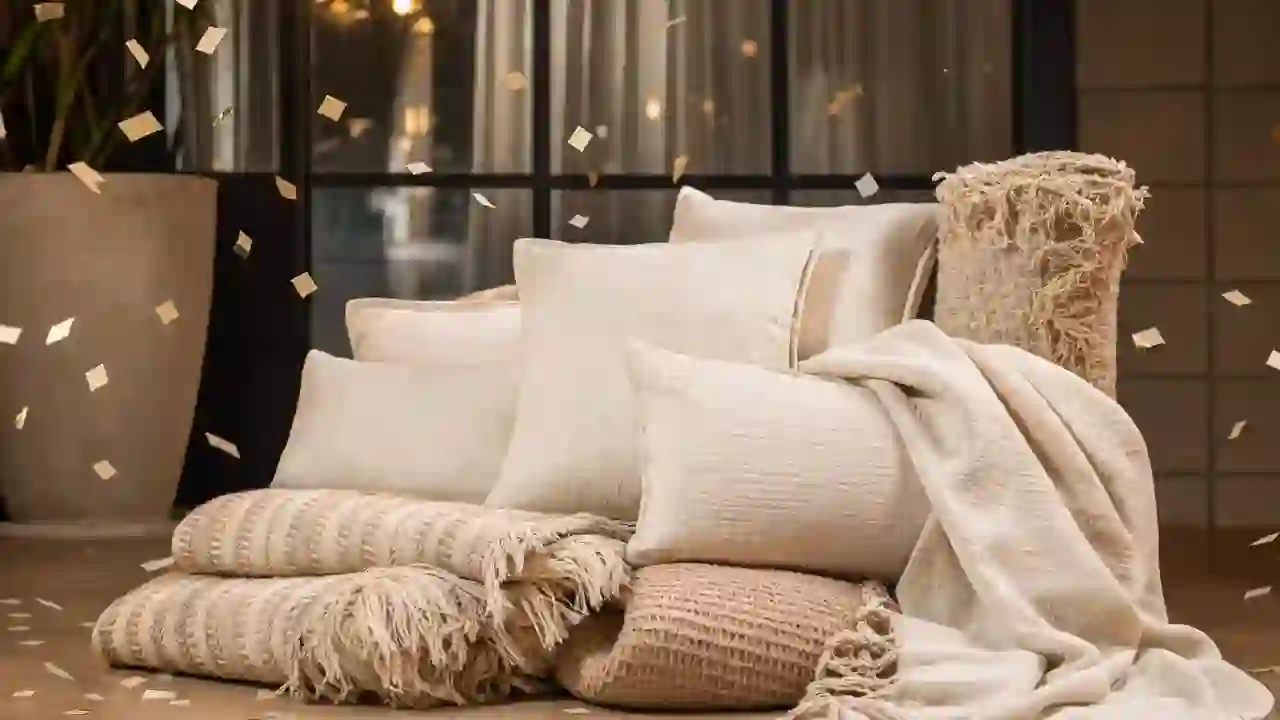
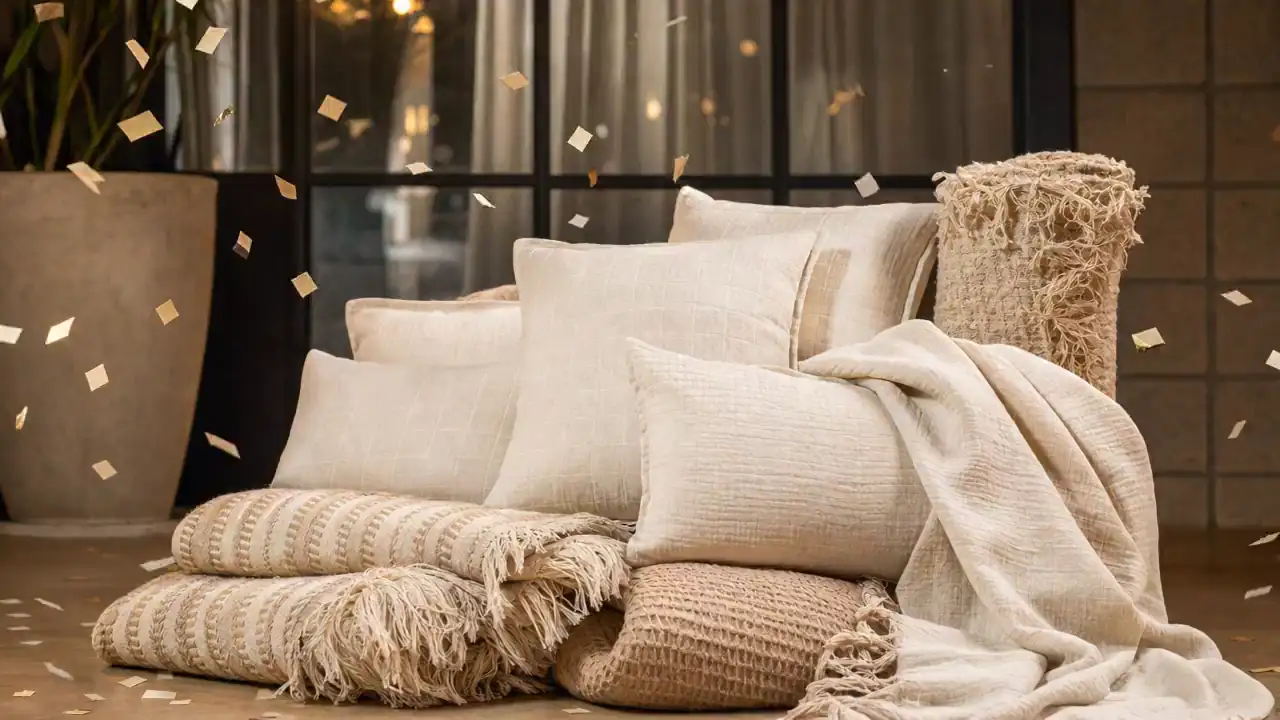
feat: ronda de Nicolás — ritmo del video, cierre alineado y Google directo
- fondo en video: reencode para decodificación barata, promoción de capa antes
  de reproducir, arranque por canplaythrough, reinicio del loop durante el
  fundido y corte por dispositivo en gama baja
- premio genérico en toda la comunicación; el detalle por ganador queda en Bases
- CTA de cierre "Autorizar y confirmar", compacto y alineado con los tickets
- letra chica y Bases explicitan el uso anónimo del material
- Google abre el panel de calificar (g.page/r/.../review), no la lista
- footer reducido a Rollershow y Bases y condiciones
- nuevo scripts/verify-video-pacing.mjs

diff --git a/index.html b/index.html
@@ -777,7 +777,9 @@ body{min-height:100vh;min-height:100dvh}
 .confirm-summary{display:flex;flex-direction:column;min-width:0}
 .confirm-score{margin-top:16px;padding-block:14px;border-block:1px solid rgba(142,77,31,.28);color:var(--fg-soft)}
 .confirm-chances{display:flex;align-items:flex-end;gap:12px}
-.confirm-chances strong{font-family:var(--font-display);font-size:clamp(4.8rem,18vw,8.2rem);font-weight:800;line-height:.72;letter-spacing:-.075em;color:var(--cta-deep);font-variant-numeric:tabular-nums}
+/* El tracking negativo se aplica también después del último dígito: sin este
+   padding la etiqueta se monta encima del número (visible con 1 dígito). */
+.confirm-chances strong{font-family:var(--font-display);font-size:clamp(4.8rem,18vw,8.2rem);font-weight:800;line-height:.72;letter-spacing:-.075em;padding-right:.075em;color:var(--cta-deep);font-variant-numeric:tabular-nums}
 .confirm-chances span{font-family:var(--font-display);font-size:1.05rem;font-weight:800;line-height:1.05;max-width:11ch;padding-bottom:4px}
 .confirm-ticket-icon{display:block;width:30px;height:30px;margin-bottom:6px;color:var(--cta-deep)}
 .confirm-proof{margin-top:12px;max-width:36ch;font-weight:700;font-size:.9rem;color:var(--fg-soft)}
@@ -789,13 +791,16 @@ body{min-height:100vh;min-height:100dvh}
 @keyframes finalProof{from{opacity:0;transform:translateY(10px)}to{opacity:1;transform:none}}
 .confirm-actions{margin-top:18px;align-self:stretch}
 .confirm-step .consent{display:block;position:relative;margin:0;padding:0;background:none;color:inherit}
+/* CTA compacto y corto: en desktop no es una barra a sangre, se mide por su
+   propio texto y comparte el eje izquierdo con la letra chica (Nico, 2026-07-23). */
 .confirm-step .consent-action{display:flex;width:100%;min-height:64px;padding:15px 18px;align-items:center;justify-content:center;gap:10px;border:1px solid transparent;border-radius:14px;
   background:var(--cta);color:#fff;font-family:var(--font-display);font-size:1rem;font-weight:800;line-height:1.2;text-align:center;box-shadow:0 16px 34px -17px rgba(151,41,15,.9);transition:background .34s,box-shadow .34s,transform .2s,border-color .34s}
 .confirm-step .consent-action:hover{background:var(--cta-deep)}
 .confirm-step .consent-action:active{transform:scale(.985)}
 .confirm-step .consent-action:focus-visible{outline:3px solid rgba(198,58,33,.3);outline-offset:3px}
 .confirm-step .consent-action svg{width:18px;height:18px;flex:none}
-.confirm-step .consent-note{margin:10px auto 0;max-width:46ch;color:var(--fg-mute);font-size:.76rem;line-height:1.4;text-align:center}
+.confirm-step .consent-note{margin:12px 0 0;max-width:46ch;color:var(--fg-mute);font-size:.76rem;line-height:1.45;text-align:left}
+.confirm-step .consent-note strong{color:var(--fg-soft);font-weight:700}
 .confirm-step .consent-note a{position:relative;display:inline-block;min-height:32px;padding:6px 4px;color:var(--accent-deep);font-weight:700;text-underline-offset:3px}
 /* El área táctil llega a 44 px sin estirar la línea: si el link creciera de verdad,
    abriría un hueco en medio del párrafo de consentimiento. */
@@ -892,7 +897,11 @@ body.done #flowApp{display:none}
   .confirm-step .confirm-summary>.step-title{grid-column:2 / span 7;grid-row:1;margin:0}
   .confirm-step .confirm-summary>.step-copy{grid-column:2 / span 6;grid-row:2;margin:0}
   .confirm-step .confirm-score{grid-column:2 / span 5;grid-row:3;margin-top:16px}
-  .confirm-step .confirm-actions{grid-column:7 / span 5;grid-row:3;margin-top:16px;align-self:center}
+  /* align-self:start, no center: el borde superior del CTA tiene que arrancar en
+     la misma línea que el bloque de tickets. Con center quedaba 33 px más abajo
+     y se leía como desalineado. */
+  .confirm-step .confirm-actions{grid-column:7 / span 5;grid-row:3;margin-top:16px;align-self:start}
+  .confirm-step .consent-action{display:inline-flex;width:auto;max-width:100%;min-height:56px;padding:16px 28px;font-size:.98rem}
   .item-step .step-inner{display:grid;grid-template-columns:repeat(12,minmax(0,1fr));column-gap:24px;row-gap:12px;align-items:start;align-content:start}
   .item-step.has-media .step-inner{row-gap:0}
   .item-step.has-media .item-heading{margin-bottom:12px}
@@ -955,12 +964,37 @@ body.done #flowApp{display:none}
       <div class="intro-scene">
         <picture aria-hidden="true">
           <source media="(max-width:799px)" srcset="img/video/rs-premio-celebracion-mobile-poster.webp" />
-          <img class="intro-base" src="img/video/rs-premio-celebracion-desktop-poster.webp" width="1440" height="810" alt="" fetchpriority="high" />
+          <img class="intro-base" src="img/video/rs-premio-celebracion-desktop-poster.webp" width="1280" height="720" alt="" fetchpriority="high" />
         </picture>
         <video class="scene-video" data-scene-video data-seamless-start data-soft-loop data-src-desktop="img/video/rs-premio-celebracion-desktop.mp4" data-src-mobile="img/video/rs-premio-celebracion-mobile.mp4" muted playsinline preload="auto" aria-hidden="true">
           <source media="(max-width:799px)" src="img/video/rs-premio-celebracion-mobile.mp4" type="video/mp4" />
           <source src="img/video/rs-premio-celebracion-desktop.mp4" type="video/mp4" />
         </video>
+        <!-- El video se declara con sus <source> y preload="auto" para que arranque
+             sin cambio de plano. Este script corre apenas se parsea el elemento y
+             aborta la descarga sólo en equipos que no la bancan: ahí queda el
+             póster quieto, que es mejor que un fondo a los tirones. -->
+        <script>
+        window.sceneVideoAllowed = function () {
+          if (window.sceneVideoAllowed.cache !== undefined) return window.sceneVideoAllowed.cache;
+          var c = navigator.connection || {};
+          var lenta = c.saveData === true || /^(slow-)?2g$/.test(c.effectiveType || "") || c.effectiveType === "3g";
+          var pocaMemoria = typeof navigator.deviceMemory === "number" && navigator.deviceMemory <= 4;
+          var pocosNucleos = typeof navigator.hardwareConcurrency === "number" && navigator.hardwareConcurrency <= 4;
+          window.sceneVideoAllowed.cache = !(lenta || (pocaMemoria && pocosNucleos));
+          return window.sceneVideoAllowed.cache;
+        };
+        if (!window.sceneVideoAllowed()) {
+          (function () {
+            var v = document.currentScript.parentNode.querySelector(".scene-video");
+            if (!v) return;
+            v.preload = "none";
+            while (v.firstElementChild) v.removeChild(v.firstElementChild);
+            v.removeAttribute("src");
+            v.load();
+          })();
+        }
+        </script>
       </div>
       <div class="step-inner">
         <img class="intro-logo" src="img/logo.svg" alt="Rollershow" />
@@ -1161,10 +1195,10 @@ body.done #flowApp{display:none}
     <div class="wrap">
       <div class="consent" id="consentBox">
         <input type="checkbox" id="consent" hidden />
-        <button class="consent-action" id="confirmParticipation" type="button">Autorizar el uso y confirmar mi participación
+        <button class="consent-action" id="confirmParticipation" type="button">Autorizar y confirmar
           <svg viewBox="0 0 24 24" fill="none" stroke="currentColor" stroke-width="2.4" aria-hidden="true"><path d="M5 12h14M13 6l6 6-6 6"/></svg>
         </button>
-        <p class="consent-note">Autorizás a Rollershow a publicar las fotos, videos, audios y opinión que compartiste en sus redes y web. Este único toque autoriza y confirma. <a href="#" id="openBases">Ver bases del sorteo</a></p>
+        <p class="consent-note">Con este toque autorizás y confirmás tu participación. Usamos tus fotos, video, audio y opinión sólo para mostrarle a otros clientes cómo quedan nuestras cortinas, <strong>de forma anónima: no publicamos tu nombre, tu teléfono ni tus datos</strong>. Podés pedirnos que lo bajemos cuando quieras. <a href="#" id="openBases">Ver bases y condiciones</a></p>
       </div>
       <p class="cta-sub" id="ctaSub">Con lo que cargaste hasta ahora entrás al sorteo de julio.</p>
     </div>
@@ -1205,9 +1239,16 @@ body.done #flowApp{display:none}
          de Google Business Profile para esto), así que la confirmación es
          auto-reportada por el cliente. Rollershow asume ese margen de
          confianza, igual que ya confía en que las fotos subidas son reales.
-         Link directo al compositor de reseñas del local de CABA, confirmado
-         por Agus. El segmento !9m1!1b1 abre la acción de escribir la opinión;
-         Google puede pedir login primero si no hay una sesión iniciada.
+         Link corto oficial de Google al compositor de reseñas del local de CABA
+         (Roseti 1674). Es el mismo formato que Google Business Profile entrega
+         en "Pedir reseñas" y el que usan los QR de locales: en un celular con
+         la app de Maps abre directo el panel de estrellas, no la lista de
+         opiniones. Se derivó del CID de la ficha (0x4354517b56352268).
+         El link anterior (maps/place/...!9m1!1b1) abría la ficha con las
+         opiniones y obligaba a buscar el botón de escribir.
+         Alternativa equivalente para web, si alguna vez hiciera falta:
+         https://search.google.com/local/writereview?placeid=ChIJa1mZkHG2vJURaCI1VntRVEM
+         Google pide login primero si no hay sesión iniciada.
          TODO(Nico): Rollershow tiene 2 locales (CABA y Villa Carlos Paz) —
          este mockup usa siempre el de CABA. Si el presupuesto trae el local
          de origen, elegir el link según corresponda; si no, confirmar con
@@ -1216,7 +1257,7 @@ body.done #flowApp{display:none}
       <div class="g-block" id="gBlock">
         <h3 id="gTitle">Duplicá tus tickets en Google</h3>
         <p id="gIntro">Publicá tu reseña y, cuando vuelvas, confirmá que ya está.</p>
-        <a class="g-cta" id="gReviewBtn" href="https://www.google.com/maps/place/Cortinas+RollerShow/@-34.5819602,-58.4652317,20z/data=!4m8!3m7!1s0x95bcb6719099596b:0x4354517b56352268!8m2!3d-34.5817708!4d-58.4657373!9m1!1b1!16s%2Fg%2F11ddzr18df?entry=ttu&amp;g_ep=EgoyMDI2MDcxMy4wIKXMDSoASAFQAw%3D%3D" target="_blank" rel="noopener">
+        <a class="g-cta" id="gReviewBtn" href="https://g.page/r/CWgiNVZ7UVRD/review" target="_blank" rel="noopener">
           Ir a Google y duplicar mis tickets
           <svg viewBox="0 0 24 24" fill="none" stroke="currentColor" stroke-width="2.4"><path d="M5 12h14M13 6l6 6-6 6"/></svg>
         </a>
@@ -1251,8 +1292,8 @@ body.done #flowApp{display:none}
 
 <footer>
   <div class="wrap">
-    <span>Rollershow. Cortinas a medida en Villa Carlos Paz y Capital Federal.</span>
-    <span><a href="#" id="openBases2">Bases y condiciones del sorteo</a></span>
+    <span>Rollershow</span>
+    <span><a href="#" id="openBases2">Bases y condiciones</a></span>
   </div>
 </footer>
 
@@ -1265,10 +1306,15 @@ body.done #flowApp{display:none}
     <div class="bases-txt">
       <p>Participan clientes de Rollershow mayores de 18 años, residentes en Argentina, que hayan comprado cortinas y completen este formulario durante el mes en curso.</p>
       <p>Toda participación confirmada tiene al menos un ticket, y cada ticket es una chance en el sorteo. Los tickets se otorgan por: foto de cortina instalada (1 por foto), video (1 por video), mensaje de voz (3), calificación con estrellas (1) y opinión escrita de al menos 20 caracteres (1). El total final lo valida Rollershow al revisar el material.</p>
-      <p id="basesPrizeText">Este mes se sortean 3 almohadones y 2 alfombras premium entre 3 ganadores. El sorteo se realiza en vivo en la fecha publicada en esta página, desde el Instagram de Rollershow, y el resultado se publica en esa cuenta. Los ganadores serán contactados por WhatsApp.</p>
+      <p id="basesPrizeText">Este mes se sortean 3 premios entre 3 personas, uno por persona. El sorteo se realiza en vivo en la fecha publicada en esta página, desde el Instagram de Rollershow, y el resultado se publica en esa cuenta. Las personas ganadoras serán contactadas por WhatsApp.</p>
       <p>Para que la participación sea válida al momento del sorteo, la persona debe seguir a <strong>@cortinas.rollershow</strong> en Instagram. Rollershow verificará este requisito antes de entregar el premio. Instagram no patrocina, avala ni administra esta promoción, ni está asociado a ella.</p>
-      <p>Al participar autorizás a Rollershow a publicar las fotos, videos, audios y textos enviados en sus redes sociales, web y material comercial, sin datos personales más allá de tu nombre de pila. Podés pedir la baja del material escribiéndonos cuando quieras.</p>
+      <p><strong>Uso del material, en forma anónima.</strong> Al participar autorizás a Rollershow a publicar las fotos, videos, audios y textos que enviaste en sus redes sociales, su web y su material comercial, con un solo fin: mostrarle a otros clientes cómo quedan las cortinas instaladas. La publicación es anónima: no difundimos tu nombre, tu teléfono, tu dirección ni ningún otro dato personal junto al material. Podés pedirnos que lo demos de baja cuando quieras, escribiéndonos por WhatsApp o por Instagram.</p>
+      <p><strong>Tus datos.</strong> El material y los datos de contacto se usan sólo para administrar este sorteo, avisarte si ganás y publicar el material como se explica arriba. No se venden ni se ceden a terceros.</p>
+      <!-- TODO(legal): definir quién paga el envío o retiro del premio y la vía
+           de participación sin compra que exige el Decreto 961/2017. No inventar
+           ninguna de las dos acá. -->
       <p>Sin obligación de compra adicional. Premios no canjeables por dinero.</p>
+      <p>Los premios pueden variar de un mes a otro. El detalle vigente es el publicado en estas bases al momento del sorteo.</p>
     </div>
     <button class="modal-close" data-close>Entendido</button>
   </div>
@@ -1298,6 +1344,12 @@ const SORTEO = {
   mes: "julio",
   fecha: "31 de julio",
   ganadores: 3,
+  /* Cómo se nombra el premio en la comunicación (portada, confirmación,
+     Gracias, salida). Es deliberadamente genérico porque los productos cambian
+     mes a mes y el copy no puede quedar viejo: pedido de Agus 2026-07-23.
+     El detalle exacto vive abajo y sólo se publica en las Bases. */
+  premioGenerico: "sets de textiles premium",
+  premioGenericoDetalle: "mantas, almohadones y alfombras para acompañar tus cortinas",
   /* Un set por ganador. El Decreto 961/2017 exige informar qué recibe cada
      ganador, así que esta es la forma que además destraba las Bases. */
   premios: [
@@ -1312,9 +1364,9 @@ function listaNatural(partes) {
   if (partes.length < 2) return partes[0] || "premios de decoración";
   return `${partes.slice(0,-1).join(", ")} y ${partes.at(-1)}`;
 }
-/* Resumen corto para los lugares donde no entra el detalle, y el detalle por
-   ganador para portada y Bases. */
-const premiosResumen = `${SORTEO.premios.length} ${SORTEO.premios.length === 1 ? "premio" : "premios"} de mantas y almohadones`;
+/* Resumen genérico para toda la comunicación, y el detalle por ganador que sólo
+   aparece en las Bases. */
+const premiosResumen = `${SORTEO.premios.length} ${SORTEO.premioGenerico}`;
 const premiosDetalle = SORTEO.premios.map(premio => `${premio.puesto}: ${premio.contenido}`).join(". ") + ".";
 const ganadoresTexto = `${SORTEO.ganadores} ${SORTEO.ganadores === 1 ? "persona" : "personas"}`;
 
@@ -1369,15 +1421,20 @@ document.body.classList.add(`variant-${FLOW_VARIANT}`);
 $("#heroTitle").textContent = `${PRESUPUESTO.cliente.nombre}, mostrá cómo quedó tu casa.`;
 $("#flowHeroTitle").textContent = `${PRESUPUESTO.cliente.nombre}, compartí tu cortina y participá del sorteo.`;
 $("#introPrizeHook").textContent = "Mostranos cómo quedó tu casa con fotos, videos o tu experiencia.";
-$("#introPrizeCopy").replaceChildren(...SORTEO.premios.map(premio => {
+/* La portada nombra el premio de forma genérica: los productos cambian todos los
+   meses y el detalle por ganador queda en las Bases. */
+$("#introPrizeCopy").replaceChildren(...[
+  `<b>${premiosResumen}</b> para tu casa, uno para cada ganador.`,
+  SORTEO.premioGenericoDetalle.charAt(0).toUpperCase() + SORTEO.premioGenericoDetalle.slice(1) + "."
+].map(texto => {
   const fila = document.createElement("li");
-  fila.innerHTML = `<b>${premio.puesto}</b> ${premio.contenido}`;
+  fila.innerHTML = texto;
   return fila;
 }));
 $("#introDateCopy").innerHTML = `<strong>${SORTEO.ganadores} ${SORTEO.ganadores === 1 ? "ganador" : "ganadores"}.</strong> En vivo por Instagram el ${SORTEO.fecha}.`;
 $("#introPrizeImage").src = SORTEO.imagenPremios;
-$("#introPrizeImage").alt = `Premios del sorteo. ${premiosDetalle}`;
-$("#confirmPrizeReminder").textContent = `En ${SORTEO.mes} sorteamos ${premiosResumen}.`;
+$("#introPrizeImage").alt = `Premios del sorteo: ${premiosResumen}.`;
+$("#confirmPrizeReminder").textContent = `En ${SORTEO.mes} sorteamos ${premiosResumen} para tu casa.`;
 $("#instagramRequirement").innerHTML = `Es un requisito del sorteo. Lo hacemos <strong>en vivo el ${SORTEO.fecha}</strong> y anunciamos a ${ganadoresTexto} en <strong>@cortinas.rollershow</strong>.`;
 $("#thanksDrawDate").innerHTML = `Sorteo <b>en vivo el ${SORTEO.fecha}</b> por Instagram. Ahí anunciamos a ${ganadoresTexto}.`;
 $("#basesPrizeText").textContent = `Este mes se sortean ${SORTEO.premios.length} premios entre ${ganadoresTexto}, uno por persona. ${premiosDetalle} El sorteo se realiza en vivo el ${SORTEO.fecha}, desde el Instagram de Rollershow, y el resultado se publica en esa cuenta. Las personas ganadoras serán contactadas por WhatsApp.`;
@@ -2140,34 +2197,43 @@ function syncExperienceProgress({ revealAudio = false, revealText = false } = {}
     cta?.focus({ preventScroll:true });
   }, 220);
 }
+/* Definido junto al video de portada para poder abortar la descarga apenas se
+   parsea el elemento. Acá sólo se reusa. */
+const sceneVideoAllowed = window.sceneVideoAllowed || (() => true);
 function prepareSceneVideo(video) {
-  if (!video) return;
+  if (!video || !sceneVideoAllowed()) return;
   const embeddedSource = video.querySelector("source[src]");
   if (!video.src && !embeddedSource) video.src = matchMedia("(max-width:799px)").matches ? video.dataset.srcMobile : video.dataset.srcDesktop;
   video.preload = "auto";
   video.load();
 }
+/* El reinicio del loop se adelanta al final del clip: rebobinar recién en `ended`
+   obligaba a decodificar de cero con el video ya visible y eso era el tirón que
+   se veía cada 10 s en celulares lentos (Nico, 2026-07-23). Ahora el salto ocurre
+   durante el fundido, cuando la capa ya está en opacidad 0. */
 function setupSoftVideoLoop(video) {
   if (!video?.hasAttribute("data-soft-loop") || video.dataset.softLoopReady) return;
   video.dataset.softLoopReady = "true";
-  video.addEventListener("timeupdate", () => {
-    if (video.duration && video.currentTime >= video.duration - .48 && !video.classList.contains("soft-loop-fade")) {
-      video.classList.add("soft-looping", "soft-loop-fade");
-    }
-  });
-  video.addEventListener("ended", () => {
-    video.currentTime = 0;
-    const resume = () => {
+  const reiniciar = () => {
+    if (video.dataset.softLoopBusy) return;
+    video.dataset.softLoopBusy = "1";
+    video.classList.add("soft-looping", "soft-loop-fade");
+    setTimeout(() => {
+      try { video.currentTime = 0; } catch (_) {}
       video.play().catch(() => {});
-      requestAnimationFrame(() => requestAnimationFrame(() => video.classList.remove("soft-loop-fade")));
-      setTimeout(() => video.classList.remove("soft-looping"), 460);
-    };
-    if (video.readyState >= HTMLMediaElement.HAVE_FUTURE_DATA) resume();
-    else video.addEventListener("canplay", resume, { once:true });
+      requestAnimationFrame(() => requestAnimationFrame(() => {
+        video.classList.remove("soft-loop-fade");
+        setTimeout(() => { video.classList.remove("soft-looping"); delete video.dataset.softLoopBusy; }, 460);
+      }));
+    }, 180);
+  };
+  video.addEventListener("timeupdate", () => {
+    if (video.duration && video.currentTime >= video.duration - .42) reiniciar();
   });
+  video.addEventListener("ended", reiniciar);
 }
 function activateSceneVideo(video, restart = false) {
-  if (!video) return;
+  if (!video || !sceneVideoAllowed()) return;
   setupSoftVideoLoop(video);
   const embeddedSource = video.querySelector("source[src]");
   if (!video.src && !embeddedSource) {
@@ -2178,14 +2244,31 @@ function activateSceneVideo(video, restart = false) {
     if (restart || video.hasAttribute("data-seamless-start")) {
       try { video.currentTime = 0; } catch (_) {}
     }
-    requestAnimationFrame(() => {
+    /* Primero se reproduce y recién se muestra cuando hay un cuadro pintado de
+       verdad. Promover la capa y decodificar en el mismo cuadro descartaba los
+       primeros frames justo cuando la escena entra, que es donde se nota. */
+    /* La capa se promueve un cuadro antes de reproducir: componer y decodificar
+       en el mismo cuadro descartaba los primeros frames justo en la entrada de
+       la escena. Reproducir con la capa todavía invisible tampoco sirve, porque
+       el navegador descarta lo que no se pinta. */
+    const reproducir = () => {
       video.classList.add("is-ready");
-      video.play().catch(() => {});
-    });
+      requestAnimationFrame(() => video.play().catch(() => {}));
+    };
+    /* Reproducir con un seek a medio resolver hace que el decodificador arranque
+       atrasado y descarte cuadros durante todo el clip. */
+    if (video.seeking) video.addEventListener("seeked", () => requestAnimationFrame(reproducir), { once:true });
+    else requestAnimationFrame(reproducir);
   };
-  if (video.readyState >= HTMLMediaElement.HAVE_FUTURE_DATA) start();
+  /* Se espera a HAVE_ENOUGH_DATA, no a HAVE_FUTURE_DATA: con el buffer justo el
+     video entraba y se trababa en los primeros cuadros. El fallback por `canplay`
+     evita quedarse con el póster para siempre si el buffer nunca se llena. */
+  if (video.readyState >= HTMLMediaElement.HAVE_ENOUGH_DATA) start();
   else {
-    video.addEventListener("canplay", start, { once:true });
+    let arrancado = false;
+    const arrancar = () => { if (!arrancado) { arrancado = true; start(); } };
+    video.addEventListener("canplaythrough", arrancar, { once:true });
+    video.addEventListener("canplay", () => setTimeout(arrancar, 1200), { once:true });
     video.load();
   }
 }

diff --git a/PLAN.md b/PLAN.md
@@ -546,3 +546,27 @@ Agus aprobó pasar de lista de objetos sueltos a tres sets. Además de leerse me
 - [x] **Los binarios de contenido dejan de ir a git**: los 8 archivos viven en `cdn.rollershow.com.ar/web/resenas/` y el código los referencia por URL absoluta, en los dos repos. Pedido explícito de Agus, ya escrito en el `CLAUDE.md` de Nicolás ("cero binarios en git") y ahora también en los configs globales y en memoria.
 
 **Se descartaron los videos de cortinas existentes** (`black-out-pesada-negro`, `sun-screen-5-lino`, las tres de `cortina-motorizada`): son buenos, pero sólo cubren dos ambientes y romperían la correspondencia. Quedan disponibles para otros usos.
+
+## 60. Ronda de Nicolás: ritmo del video, cierre y Google directo — 2026-07-23
+
+Feedback de Nicolás, más pedidos de Agus en la misma pasada.
+
+**Frames lentos con el fondo en video (portada).** No se reprodujo en headless (16,7 ms de mediana con CPU a 6×), así que se atacaron las causas plausibles en vez de una sola hipótesis:
+- Reencode de los dos clips para decodificación barata: `main@3.1`, `-tune fastdecode`, sin CABAC ni B-frames, `ref=2`, GOP corto, `faststart`. Mobile pasó a 30 fps constantes (897 KB), desktop bajó de 1,82 MB a 1,70 MB. Los pósters se extraen del cuadro cero del propio encode, así el empalme sigue siendo inmóvil (diferencia medida: 0,55% mobile / 0,68% desktop).
+- La capa se promueve un cuadro **antes** de reproducir. Componer y decodificar en el mismo cuadro descartaba frames en la entrada; reproducir con la capa invisible los descarta igual, porque el navegador no pinta lo que no se ve (medido: 23/100 descartados por intentarlo).
+- Arranque por `canplaythrough` con fallback por `canplay` a 1,2 s, en vez de entrar con el buffer justo.
+- El reinicio del loop ocurre durante el fundido y no en `ended` con el video ya visible: ese rebobinado era el tirón cada 10 s.
+- Corte por dispositivo: con `saveData`, 2g/3g, o ≤4 GB de memoria y ≤4 núcleos, no se reproduce nada y queda el póster. Lo decide un script inline pegado al `<video>` para poder abortar la descarga apenas se parsea; los `<source>` siguen declarados en el HTML, así que en un equipo capaz el arranque sigue siendo sin cambio de plano.
+- Nuevo `scripts/verify-video-pacing.mjs`: mide el ritmo con la CPU frenada (p95 ≤ 32 ms) y verifica el corte por dispositivo.
+
+**Premio genérico.** Los productos cambian mes a mes, así que la comunicación dice `3 sets de textiles premium` (`SORTEO.premioGenerico`). El detalle por ganador sigue en `SORTEO.premios` pero se publica sólo en las Bases, que es donde el Decreto 961/2017 lo exige.
+
+**Cierre.** El CTA pasó de `Autorizar el uso y confirmar mi participación` (barra de 452 px, dos líneas en mobile) a `Autorizar y confirmar`, compacto en desktop. La desalineación que marcó Nicolás era real y medible: el bloque de acciones usaba `align-self:center` y arrancaba 33 px más abajo que el de tickets. Ahora ambos arrancan en 228,9 px y la letra chica comparte el eje izquierdo del botón. También se corrigió el tracking negativo que hacía que la etiqueta se montara sobre el número de tickets.
+
+**Letra chica.** Explicita que el material se usa sólo para mostrarle a otros clientes cómo quedan las cortinas y que la publicación es **anónima**, sin nombre ni datos. Las Bases se reescribieron en la misma línea, con un apartado de datos personales y la aclaración de que los premios varían mes a mes. Sigue pendiente, sin inventar: la vía de participación sin compra y quién paga el envío del premio.
+
+**Google.** El CTA abría la ficha con las opiniones. Ahora usa `https://g.page/r/CWgiNVZ7UVRD/review`, el link corto oficial (mismo formato que los QR de locales), derivado del CID `0x4354517b56352268` de la ficha de CABA. Equivalente para web: `search.google.com/local/writereview?placeid=ChIJa1mZkHG2vJURaCI1VntRVEM`. Sigue pendiente el local de Villa Carlos Paz.
+
+**Footer.** Sólo `Rollershow` y `Bases y condiciones`.
+
+**Material para Cami.** Se armó `Desktop\Premios-sorteo-para-Cami\` con las fotos reales con fondo, las composiciones y los videos en alta, para que arme la plantilla del sorteo.

diff --git a/CLAUDE.md b/CLAUDE.md
@@ -151,3 +151,11 @@ Una segunda app, con su propia URL, para correr el sorteo en sí: lista de parti
 - Después de cargar, la foto pasa a ser protagonista y desaparece el uploader superpuesto. Continuar es el único CTA; “Sumar otra foto o video” queda como link secundario debajo. El borrado es un único control cuadrado alineado arriba a la derecha, sin contador ni pill.
 - Con varias cargas se muestra la última. Borrarla recupera la anterior; borrar la única recupera el placeholder, retira el estado completado y recalcula los tickets.
 - La aceptación automatizada cubre reemplazo real, ausencia de previews/toasts/pills/eyebrows, suma acumulada, recuperación al borrar, ejes internos de título/superficie/acciones, reduced motion, grid y overflow de 320 a 1920 px.
+
+## Ronda de Nicolás — 2026-07-23
+
+- **Premio genérico en la comunicación, detalle sólo en Bases**: los productos cambian mes a mes, así que portada, confirmación, Gracias y salida dicen `3 sets de textiles premium`. `SORTEO.premioGenerico` y `premioGenericoDetalle` alimentan ese copy; `SORTEO.premios` sigue existiendo pero su detalle por ganador se publica únicamente en las Bases, que es donde el Decreto 961/2017 lo exige. No volver a nombrar mantas, almohadones ni alfombras en el recorrido.
+- **Consentimiento corto y anónimo**: el CTA dice `Autorizar y confirmar`, en desktop es compacto (`width:auto`, no barra a sangre) y arranca en la misma línea que el bloque de tickets (`align-self:start`, no `center`: con `center` quedaba 33 px más abajo y se leía desalineado). Debajo, alineada al mismo eje izquierdo, la letra chica explica que el material se usa sólo para mostrarle a otros clientes cómo quedan las cortinas y que la publicación es anónima, sin nombre ni datos. No volver al texto largo dentro del botón ni a la nota centrada.
+- **Google abre a calificar, no a leer opiniones**: el CTA usa el link corto oficial `https://g.page/r/CWgiNVZ7UVRD/review` (el mismo formato de los QR de locales, deriva del CID `0x4354517b56352268`). Equivalente para web: `search.google.com/local/writereview?placeid=ChIJa1mZkHG2vJURaCI1VntRVEM`. No volver a un `maps/place/...` que abre la ficha.
+- **Footer mínimo**: sólo `Rollershow` y `Bases y condiciones`.
+- **Fondo en video: ritmo antes que fidelidad**. Los clips de portada se reencodean para decodificación barata (`main@3.1`, `-tune fastdecode`, sin CABAC ni B-frames, GOP corto, `faststart`); el póster se extrae del cuadro cero del propio encode. La capa se promueve un cuadro antes de reproducir —componer y decodificar juntos descartaba cuadros en la entrada, y reproducir con la capa invisible los descarta igual porque el navegador no pinta lo que no se ve—. El arranque espera `canplaythrough` con fallback por `canplay`, y el reinicio del loop ocurre durante el fundido, no en `ended` con el video ya visible. En equipos de gama baja o red lenta (`saveData`, 2g/3g, ≤4 GB y ≤4 núcleos) no se reproduce nada: queda el póster quieto, decidido por un script inline junto al propio `<video>` para poder abortar la descarga. Se verifica con `scripts/verify-video-pacing.mjs`.